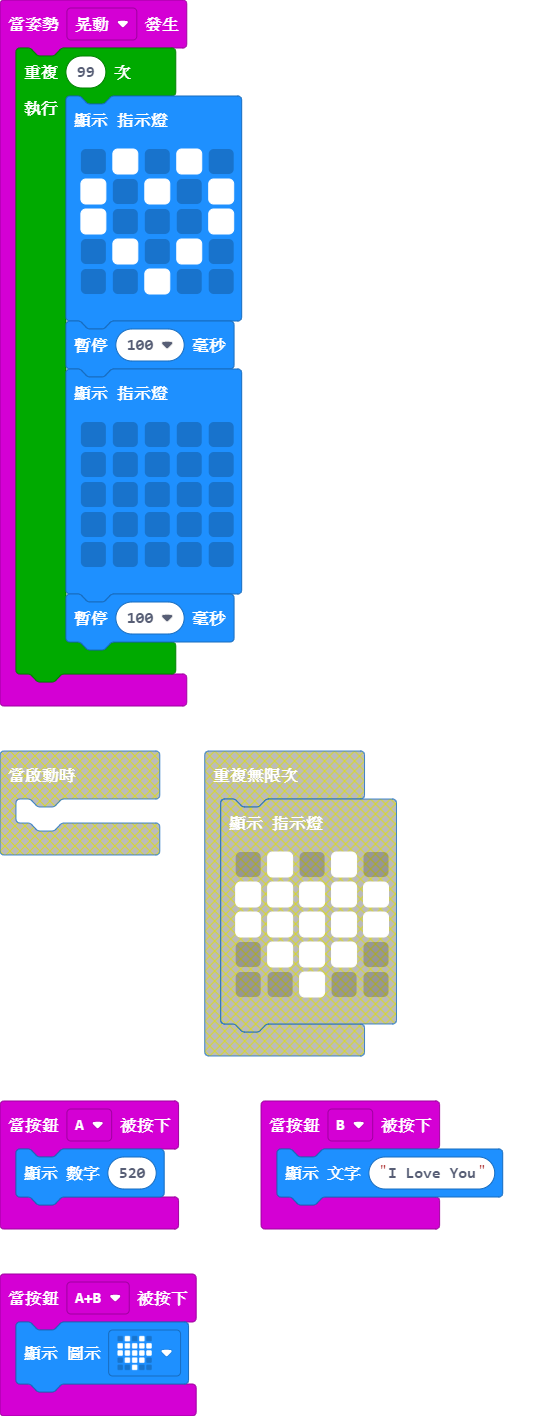
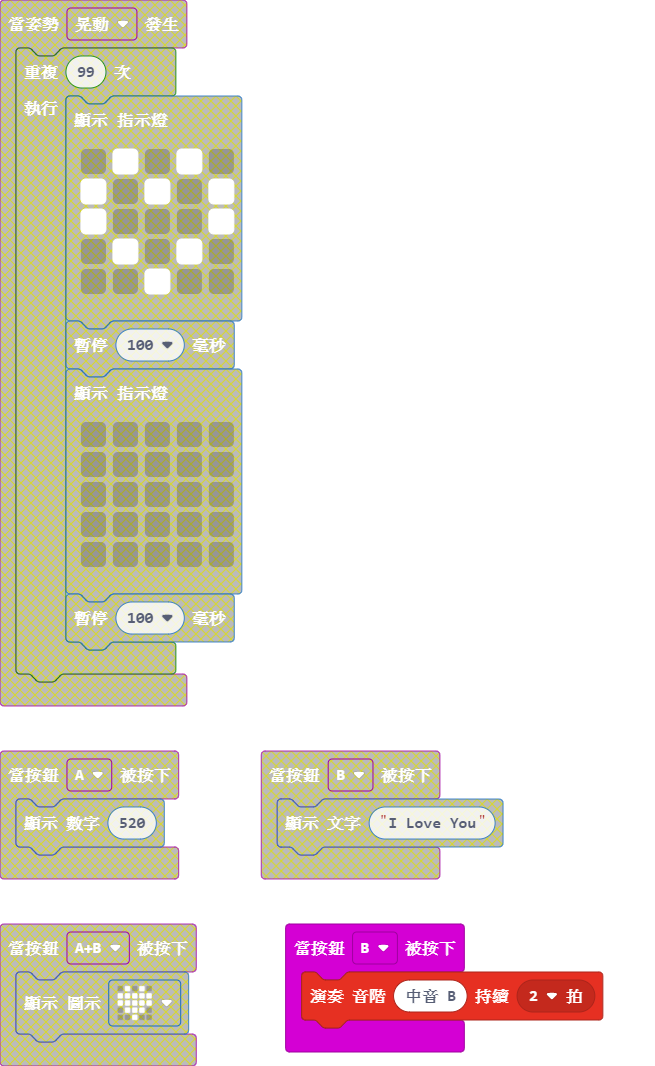
播放音階

diff --git a/main.ts b/main.ts
@@ -1,29 +1,3 @@
-input.onButtonPressed(Button.A, function () {
-    basic.showNumber(520)
-})
-input.onGesture(Gesture.Shake, function () {
-    for (let index = 0; index < 99; index++) {
-        basic.showLeds(`
-            . # . # .
-            # . # . #
-            # . . . #
-            . # . # .
-            . . # . .
-            `)
-        basic.pause(100)
-        basic.showLeds(`
-            . . . . .
-            . . . . .
-            . . . . .
-            . . . . .
-            . . . . .
-            `)
-        basic.pause(100)
-    }
-})
-input.onButtonPressed(Button.AB, function () {
-    basic.showIcon(IconNames.Heart)
-})
 input.onButtonPressed(Button.B, function () {
-    basic.showString("I Love You")
+    music.playTone(494, music.beat(BeatFraction.Double))
 })
